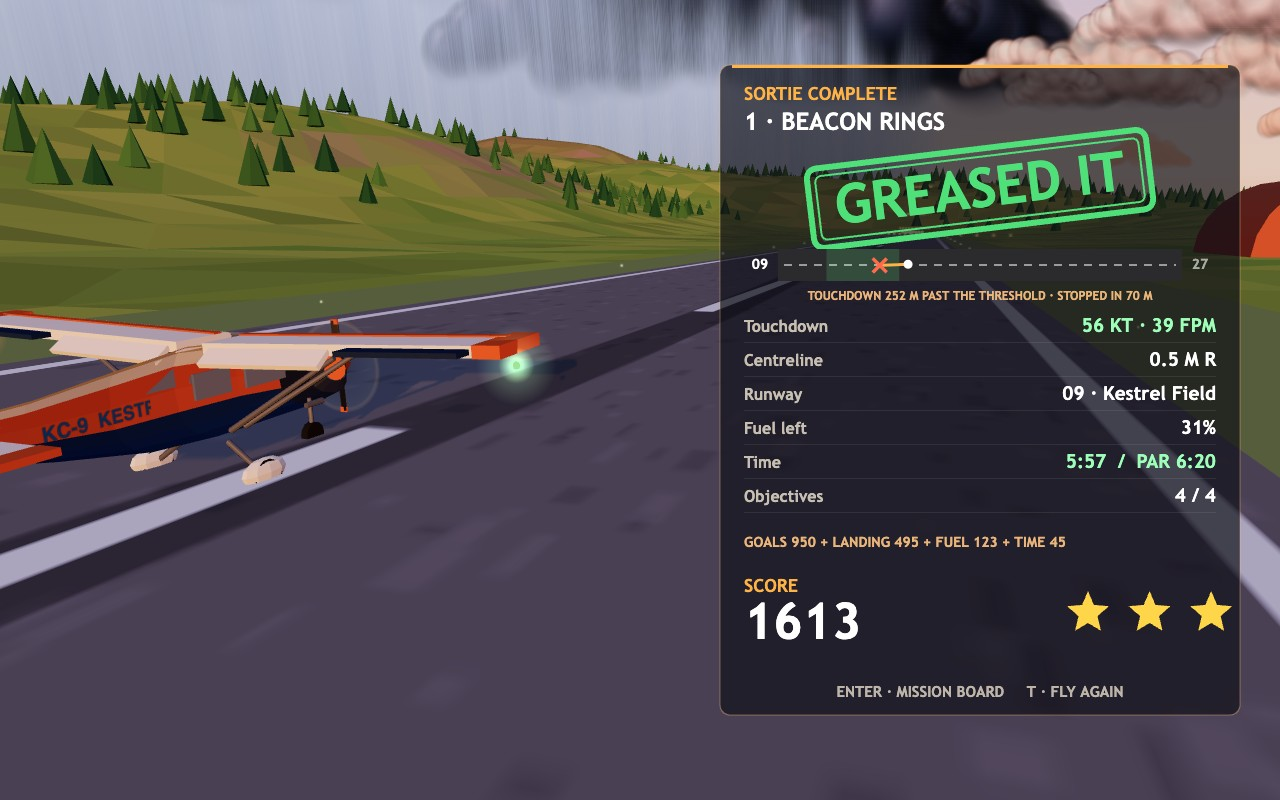
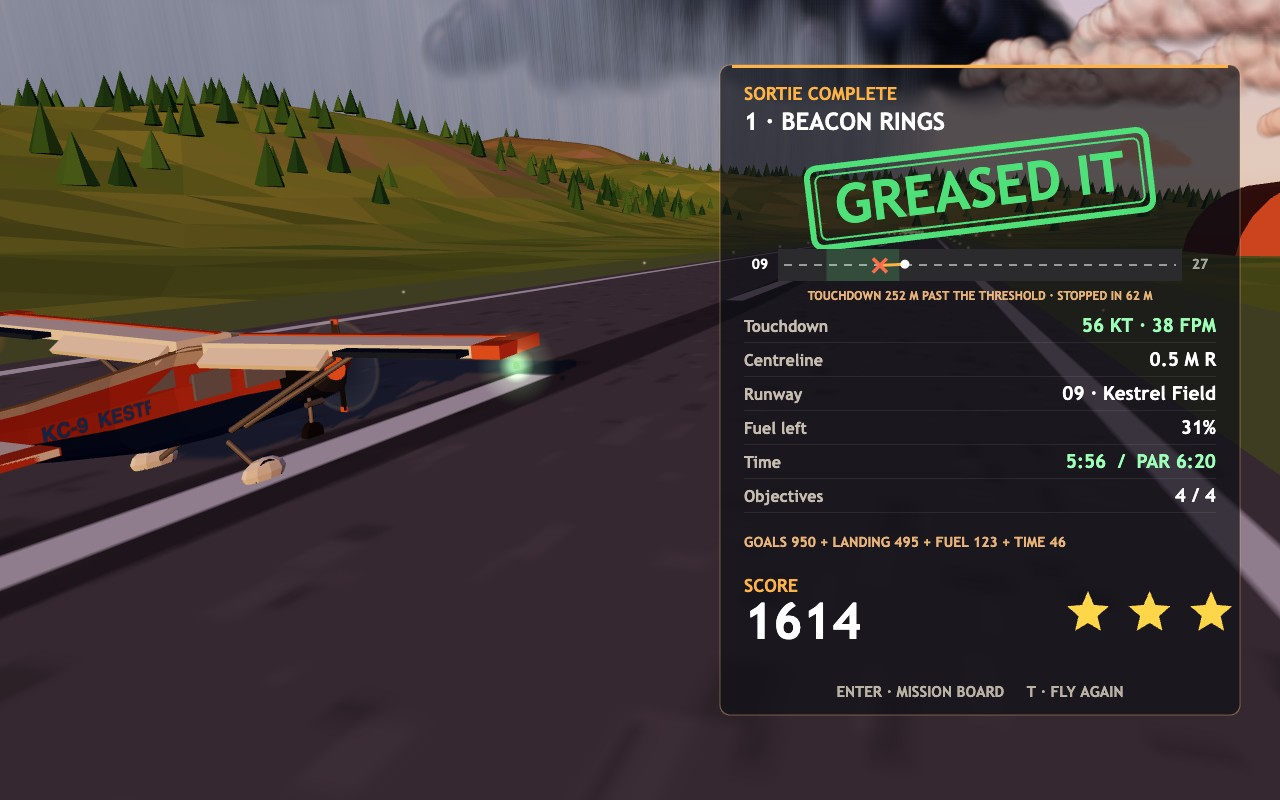
Crate impact predictor with a DROP NOW cue, rescue test in the playtest, idle wheel drag and brake hint, rescue scene

diff --git a/game/src/hud.js b/game/src/hud.js
@@ -10,6 +10,7 @@ import { SPEAKERS, drawPortrait } from './radio-portraits.js';
 import { AIRSTRIPS, runwayThreshold } from './places.js';
 import { stallSpeed } from './flight-physics.js';
 import { AIRFRAME, KT } from './config.js';
+import { predictCrate } from './game-session.js';
 
 export const FONT = '"Trebuchet MS", "Segoe UI", "Helvetica Neue", Arial, sans-serif';
 const PANEL = 'rgba(12,14,22,0.66)';
@@ -384,6 +385,42 @@ function targetMarker(g, frame, target, labelText, colour) {
   text(g, `${labelText} · ${distText}`, ex, ey + 22, 14, colour, 'center', 800);
 }
 
+/** The rescue drop cue: where the crate would land if let go now, and how far off the boat. */
+function dropCue(g, frame) {
+  const session = frame.session;
+  const boat = session.mission.boat;
+  if (!boat || !session.crate || session.crate.dropped) return;
+  const a = session.aircraft;
+  if (Math.hypot(a.pos.x - boat.x, a.pos.z - boat.z) > 1200) return;
+  const p = predictCrate(session);
+  if (!p) return;
+  const good = p.miss < 45;
+  const spot = frame.project(p.x, 1, p.z);
+  if (spot.visible) {
+    g.strokeStyle = good ? GREEN : '#ffffff';
+    g.lineWidth = 2;
+    g.beginPath();
+    g.arc(spot.x, spot.y, 10, 0, Math.PI * 2);
+    g.moveTo(spot.x - 16, spot.y);
+    g.lineTo(spot.x + 16, spot.y);
+    g.moveTo(spot.x, spot.y - 16);
+    g.lineTo(spot.x, spot.y + 16);
+    g.stroke();
+  }
+  const W = frame.designWidth;
+  const label = good ? 'DROP NOW · X' : `CRATE WOULD MISS BY ${Math.round(p.miss)} M`;
+  g.font = `800 20px ${FONT}`;
+  const w = g.measureText(label).width + 40;
+  g.fillStyle = good ? 'rgba(10,40,22,0.85)' : 'rgba(12,14,22,0.75)';
+  g.beginPath();
+  g.roundRect(W / 2 - w / 2, 176, w, 34, 8);
+  g.fill();
+  g.strokeStyle = good ? GREEN : AMBER;
+  g.lineWidth = 2;
+  g.stroke();
+  text(g, label, W / 2, 194, 20, good ? '#c8ffd8' : '#ffffff', 'center', 800);
+}
+
 function controlsStrip(g, W, H) {
   g.fillStyle = 'rgba(8,9,14,0.7)';
   g.fillRect(0, H - 22, W, 22);
@@ -456,6 +493,7 @@ export function drawFlightHud(g, frame) {
   } else {
     annunciators(g, W / 2, H - 360, session, read);
   }
+  dropCue(g, frame);
   banner(g, W, frame);
   if (frame.mapOpen) {
     g.fillStyle = 'rgba(5,6,10,0.55)';

diff --git a/game/src/shots.js b/game/src/shots.js
@@ -3,7 +3,8 @@
 // rules, and stops at a moment worth showing: the cover banking toward ring 8 on final for 09,
 // the cockpit on a stormy final, the mission board, and the landing card after a full course.
 import { STEP } from './config.js';
-import { createSortiePilot } from './autopilot.js';
+import { createSortiePilot, flyToward } from './autopilot.js';
+import { createAircraft } from './flight-physics.js';
 import { createSession, say, SPEAKER_PILOT, stepSession, toggleFlaps, toggleGear } from './game-session.js';
 import { AIRSTRIPS, runwayThreshold } from './places.js';
 
@@ -35,6 +36,15 @@ export function stageShot(name, seed) {
     const session = createSession('rings', seed);
     flyUntil(session, pilotFor(session), () => false, 900);
     return { screen: 'result', session, view: 'orbit', pilot: null, settle: 0 };
+  }
+  if (name === 'rescue') {
+    const session = createSession('rescue', seed);
+    const boat = session.mission.boat;
+    session.aircraft = createAircraft({ x: boat.x - 1500, y: 75, z: boat.z + 260, heading: 80, speedKt: 74, throttle: 0.5, flapDetent: 1, gearDown: true, fuel: 52 });
+    const target = { x: boat.x, y: 70, z: boat.z };
+    const pilot = () => flyToward(session.aircraft, target, 74);
+    flyUntil(session, pilot, (s) => Math.hypot(s.aircraft.pos.x - boat.x, s.aircraft.pos.z - boat.z) < 480 + SETTLE_STEPS * STEP * 38, 60);
+    return { screen: 'fly', session, view: 'chase', pilot, settle: SETTLE_STEPS };
   }
   if (name === 'cockpit') {
     const session = createSession('storm', seed);

diff --git a/game/src/game-session.js b/game/src/game-session.js
@@ -123,15 +123,35 @@ function nearStrip(a) {
   return null;
 }
 
+/** One step of a falling crate: gravity, and air drag on its forward travel. */
+function fallStep(pos, vel, dt) {
+  vel.y -= 9.81 * dt;
+  vel.x *= 1 - dt * 0.12;
+  vel.z *= 1 - dt * 0.12;
+  pos.x += vel.x * dt;
+  pos.y += vel.y * dt;
+  pos.z += vel.z * dt;
+}
+
+/**
+ * Where a crate let go right now would land, and how far that is from the boat: the rescue
+ * sortie's drop cue. Null when there is no crate to drop.
+ */
+export function predictCrate(session) {
+  const crate = session.crate;
+  const a = session.aircraft;
+  if (!crate || crate.dropped || a.onGround) return null;
+  const pos = { x: a.pos.x, y: a.pos.y - 1.5, z: a.pos.z };
+  const vel = { ...a.vel };
+  for (let i = 0; i < 400 && pos.y > 0.4; i += 1) fallStep(pos, vel, 0.05);
+  const boat = session.mission.boat;
+  return { x: pos.x, z: pos.z, miss: Math.hypot(pos.x - boat.x, pos.z - boat.z) };
+}
+
 function stepCrate(session, dt) {
   const crate = session.crate;
   if (!crate || !crate.dropped || crate.landed) return;
-  crate.vel.y -= 9.81 * dt;
-  crate.vel.x *= 1 - dt * 0.12;
-  crate.vel.z *= 1 - dt * 0.12;
-  crate.pos.x += crate.vel.x * dt;
-  crate.pos.y += crate.vel.y * dt;
-  crate.pos.z += crate.vel.z * dt;
+  fallStep(crate.pos, crate.vel, dt);
   const ground = groundAt(crate.pos.x, crate.pos.z);
   if (crate.pos.y <= ground.height + 0.4) {
     crate.landed = true;

diff --git a/game/src/flight-physics.js b/game/src/flight-physics.js
@@ -263,7 +263,8 @@ function stepOnGround(aircraft, controls, acc, ground, gearHeight, att, dt) {
   along += (acc.x * fx + acc.z * fz) * dt;
   lateral *= Math.exp(-dt * 9);
   const surface = ground.surface;
-  const rolling = surface === 'runway' ? 0.3 : surface === 'sand' ? 2.4 : 1.1;
+  const idle = aircraft.throttle < 0.12 ? 0.6 : 0;
+  const rolling = (surface === 'runway' ? 0.35 : surface === 'sand' ? 2.4 : 1.1) + idle;
   const braking = aircraft.brakes ? (surface === 'runway' ? 4.2 : 2.4) * (0.4 + 0.6 * aircraft.damage.gear) : 0;
   const friction = (rolling + braking) * dt;
   along = Math.abs(along) <= friction ? 0 : along - Math.sign(along) * friction;

diff --git a/game/src/main.js b/game/src/main.js
@@ -124,7 +124,7 @@ function handleEvents(events) {
       audio.objective();
     } else if (e.type === 'stall') showBanner('STALL — NOSE DOWN, POWER UP', '#ff5a45', 1.5);
     else if (e.type === 'touchdown') {
-      showBanner(`TOUCHDOWN ${Math.round(e.vsFpm)} FPM`, e.vsFpm > -230 ? '#5dff8a' : '#ffc94a');
+      showBanner(`TOUCHDOWN ${Math.round(e.vsFpm)} FPM · HOLD B TO BRAKE`, e.vsFpm > -230 ? '#5dff8a' : '#ffc94a', 3);
       touchdownDust(world.fx, a.pos);
       audio.chirp();
     } else if (e.type === 'bounce') {
